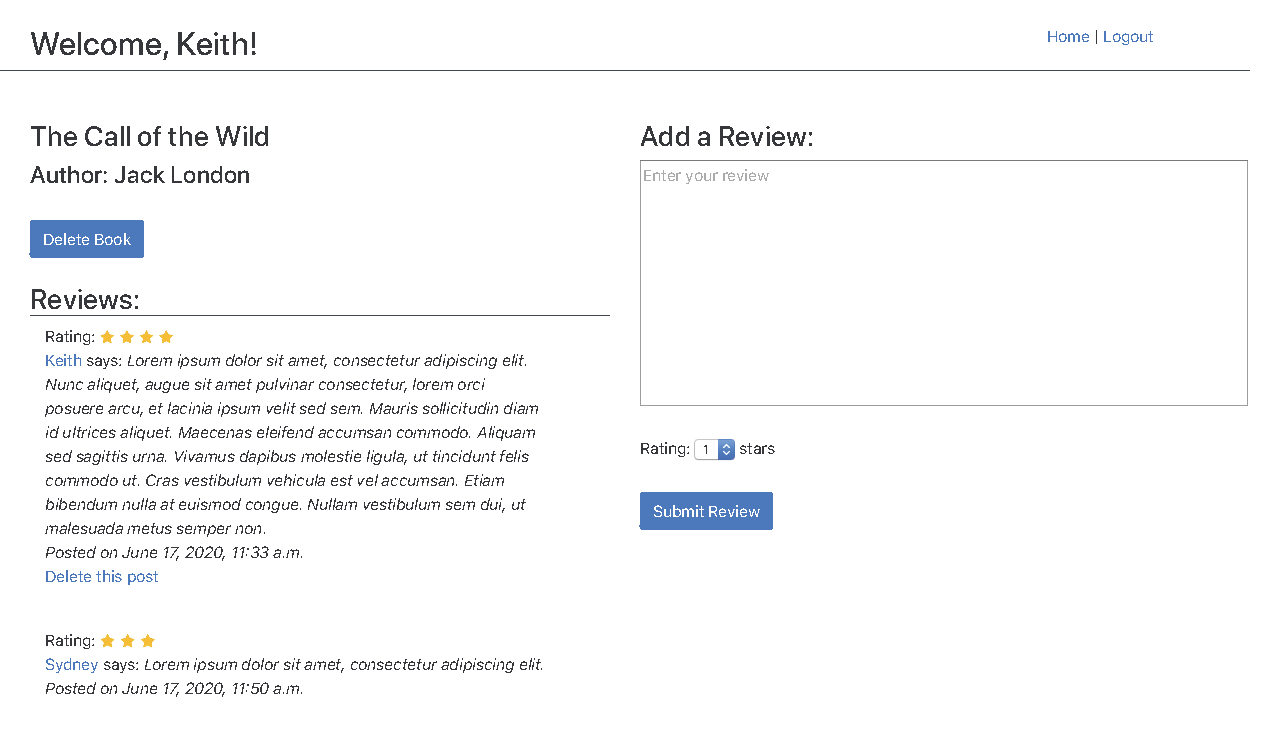
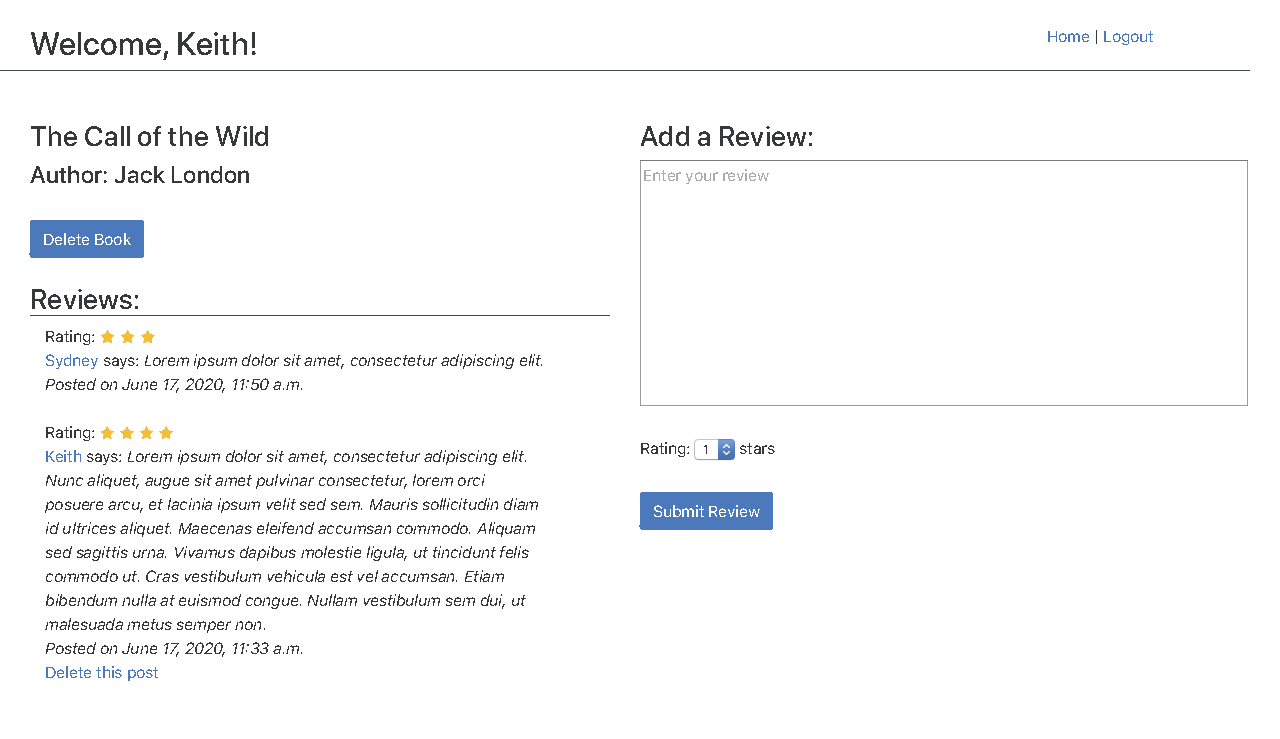
Changed review sort on show_book.html page. Update finished show_book.html image for readme.md.

Changed region(s): [[0.0312, 0.4668, 0.4062, 0.9337]]

diff --git a/python_stack/django/full_stack_django/DojoReads/main/views.py b/python_stack/django/full_stack_django/DojoReads/main/views.py
@@ -71,7 +71,7 @@ def delete_book(request, id):
 def show(request, id):
     # Show current book and review
     this_book = Book.objects.get(id=id)
-    this_book_reviews = this_book.has_reviews.all()
+    this_book_reviews = this_book.has_reviews.order_by('-created_at').all()
 
     # Store this book and it's reivews into context so we can pass it to show.html
     context = {'this_book_reviews': this_book_reviews,
